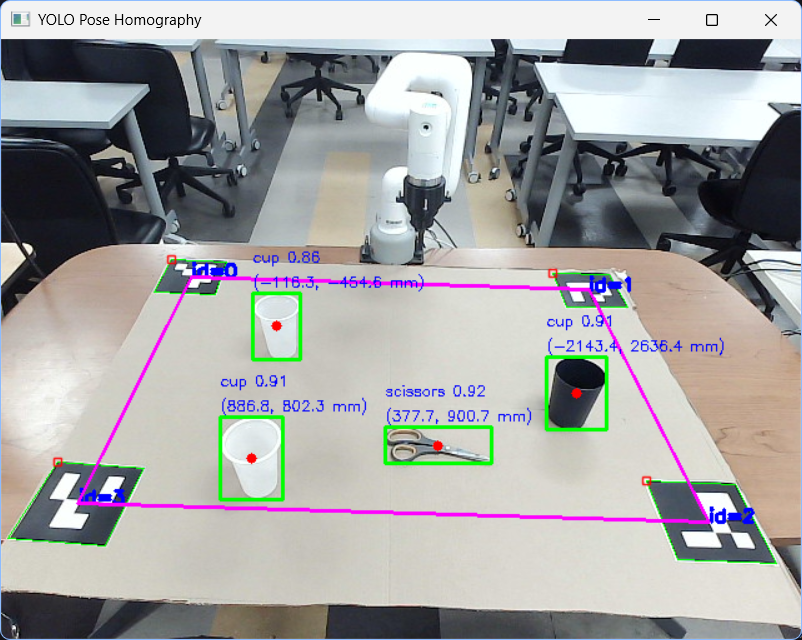
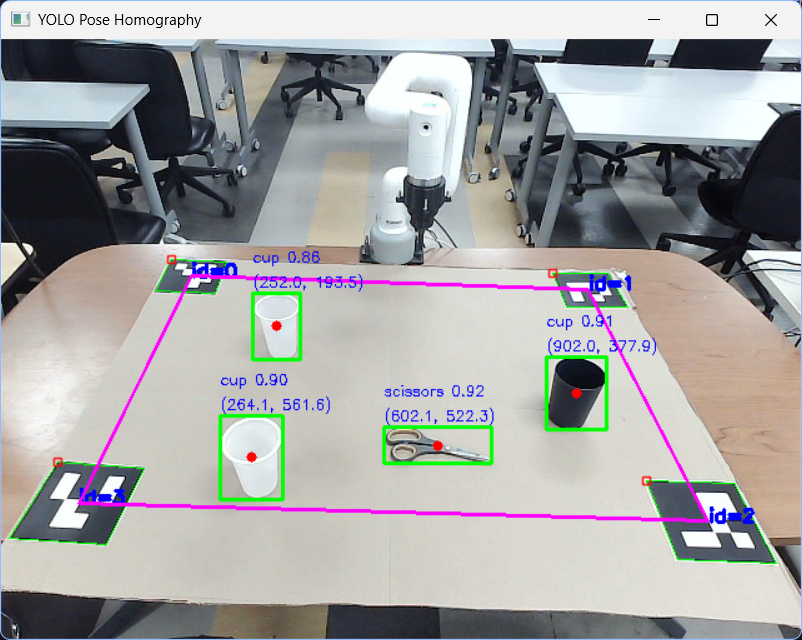
fix: update ArUCo tag processing and workspace polygon handling in YOLOPoseHomography

diff --git a/digital_twin/camera/planar_homography_yolo.py b/digital_twin/camera/planar_homography_yolo.py
@@ -20,24 +20,28 @@ class YOLOPoseHomography:
     def detect_aruco_tags(self, frame):
         undistorted = cv2.undistort(frame, self.camera_matrix, self.dist_coeffs)
         corners, ids, _ = self.aruco_detector.detectMarkers(undistorted)
+        image_coords = [None]*4
         if ids is not None and len(ids) >= 4:
-            # Sort corners by id order (0,1,2,3)
             id_list = ids.flatten().tolist()
-            image_coords = [None]*4
             for idx, aruco_id in enumerate(id_list):
                 if aruco_id in self.aruco_order:
                     image_coords[self.aruco_order.index(aruco_id)] = np.mean(corners[idx][0], axis=0)
             if all(c is not None for c in image_coords):
                 image_coords = np.array(image_coords, dtype=np.float32)
-                # Normalized field: (0,0), (1,0), (0,1), (1,1)
-                world_coords = np.array([[0,0],[1,0],[0,1],[1,1]], dtype=np.float32)
+                world_coords = np.array([[0,0],[1,0],[1,1],[0,1]], dtype=np.float32)
                 self.homography_matrix, _ = cv2.findHomography(image_coords, world_coords)
+                self.last_workspace_img_poly = image_coords.astype(np.int32)
+            else:
+                self.homography_matrix = None
+                self.last_workspace_img_poly = None
+        else:
+            self.homography_matrix = None
+            self.last_workspace_img_poly = None
         return corners, ids
 
     def detect_objects(self, frame):
         results = self.model.predict(frame)
         objects = []
-        # Get the current workspace polygon in image coordinates
         workspace_poly_img = getattr(self, 'last_workspace_img_poly', None)
         if len(results) > 0:
             result = results[0]
@@ -45,14 +49,7 @@ class YOLOPoseHomography:
                 x_min, y_min, x_max, y_max = box[:4]
                 x_center = (x_min + x_max) / 2
                 y_center = (y_min + y_max) / 2
-                inside_workspace = True
-                if workspace_poly_img is not None:
-                    # Check if the center is inside the workspace polygon in image coordinates
-                    if cv2.pointPolygonTest(workspace_poly_img, (x_center, y_center), False) < 0:
-                        inside_workspace = False
-                else:
-                    inside_workspace = False
-                if not inside_workspace:
+                if workspace_poly_img is None or cv2.pointPolygonTest(workspace_poly_img, (x_center, y_center), False) < 0:
                     continue
                 norm_x, norm_y = None, None
                 if self.homography_matrix is not None:
@@ -73,9 +70,7 @@ class YOLOPoseHomography:
 
     def process_frame(self, frame):
         aruco_corners, aruco_ids = self.detect_aruco_tags(frame)
-        # Draw detected ArUCo markers on the frame
-        warped = None
-        M = None
+        warped, M = None, None
         if aruco_ids is not None:
             frame = cv2.aruco.drawDetectedMarkers(frame.copy(), aruco_corners, aruco_ids)
             id_list = aruco_ids.flatten().tolist()
@@ -84,19 +79,16 @@ class YOLOPoseHomography:
                 if aruco_id in self.aruco_order:
                     centers[self.aruco_order.index(aruco_id)] = np.mean(aruco_corners[idx][0], axis=0)
             if all(c is not None for c in centers):
-                polygon = np.array([centers[0], centers[1], centers[2], centers[3]], dtype=np.int32)
+                polygon = np.array(centers, dtype=np.int32)
                 cv2.polylines(frame, [polygon], isClosed=True, color=(255,0,255), thickness=2)
-                self.last_workspace_img_poly = polygon
-                # Perspective transform: warp the workspace to a top-down view for visualization
                 dst_pts = np.array([[0,0],[300,0],[300,300],[0,300]], dtype=np.float32)
-                src_pts = np.array([centers[0], centers[1], centers[2], centers[3]], dtype=np.float32)
+                src_pts = np.array(centers, dtype=np.float32)
                 if src_pts.shape == (4,2):
                     M = cv2.getPerspectiveTransform(src_pts, dst_pts)
                     warped = cv2.warpPerspective(frame, M, (300,300))
         else:
             self.last_workspace_img_poly = None
         objects = self.detect_objects(frame)
-        # Draw bounding boxes and normalized field annotation
         for obj in objects:
             x_min, y_min, x_max, y_max = map(int, obj['bbox'])
             cx, cy = map(int, obj['center_px'])
@@ -110,14 +102,13 @@ class YOLOPoseHomography:
                 real_x = norm_x * self.field_size[0]
                 real_y = norm_y * self.field_size[1]
                 text1 = f'{label} {conf:.2f}'
-                text2 = f'({real_x:.1f}, {real_y:.1f} mm)'
+                text2 = f'({real_x:.1f}, {real_y:.1f})'
             else:
                 text1 = f'{label} {conf:.2f}'
                 text2 = ''
             cv2.putText(frame, text1, (x_min, y_min-25), cv2.FONT_HERSHEY_SIMPLEX, 0.38, (255,0,0), 1)
             cv2.putText(frame, text2, (x_min, y_min-5), cv2.FONT_HERSHEY_SIMPLEX, 0.38, (255,0,0), 1)
-            # Draw object center on top-down view if available
-            if 'M' in locals() and warped is not None:
+            if M is not None and warped is not None:
                 pt = np.array([[[cx, cy]]], dtype=np.float32)
                 warped_pt = cv2.perspectiveTransform(pt, M)[0][0]
                 wx, wy = int(warped_pt[0]), int(warped_pt[1])
